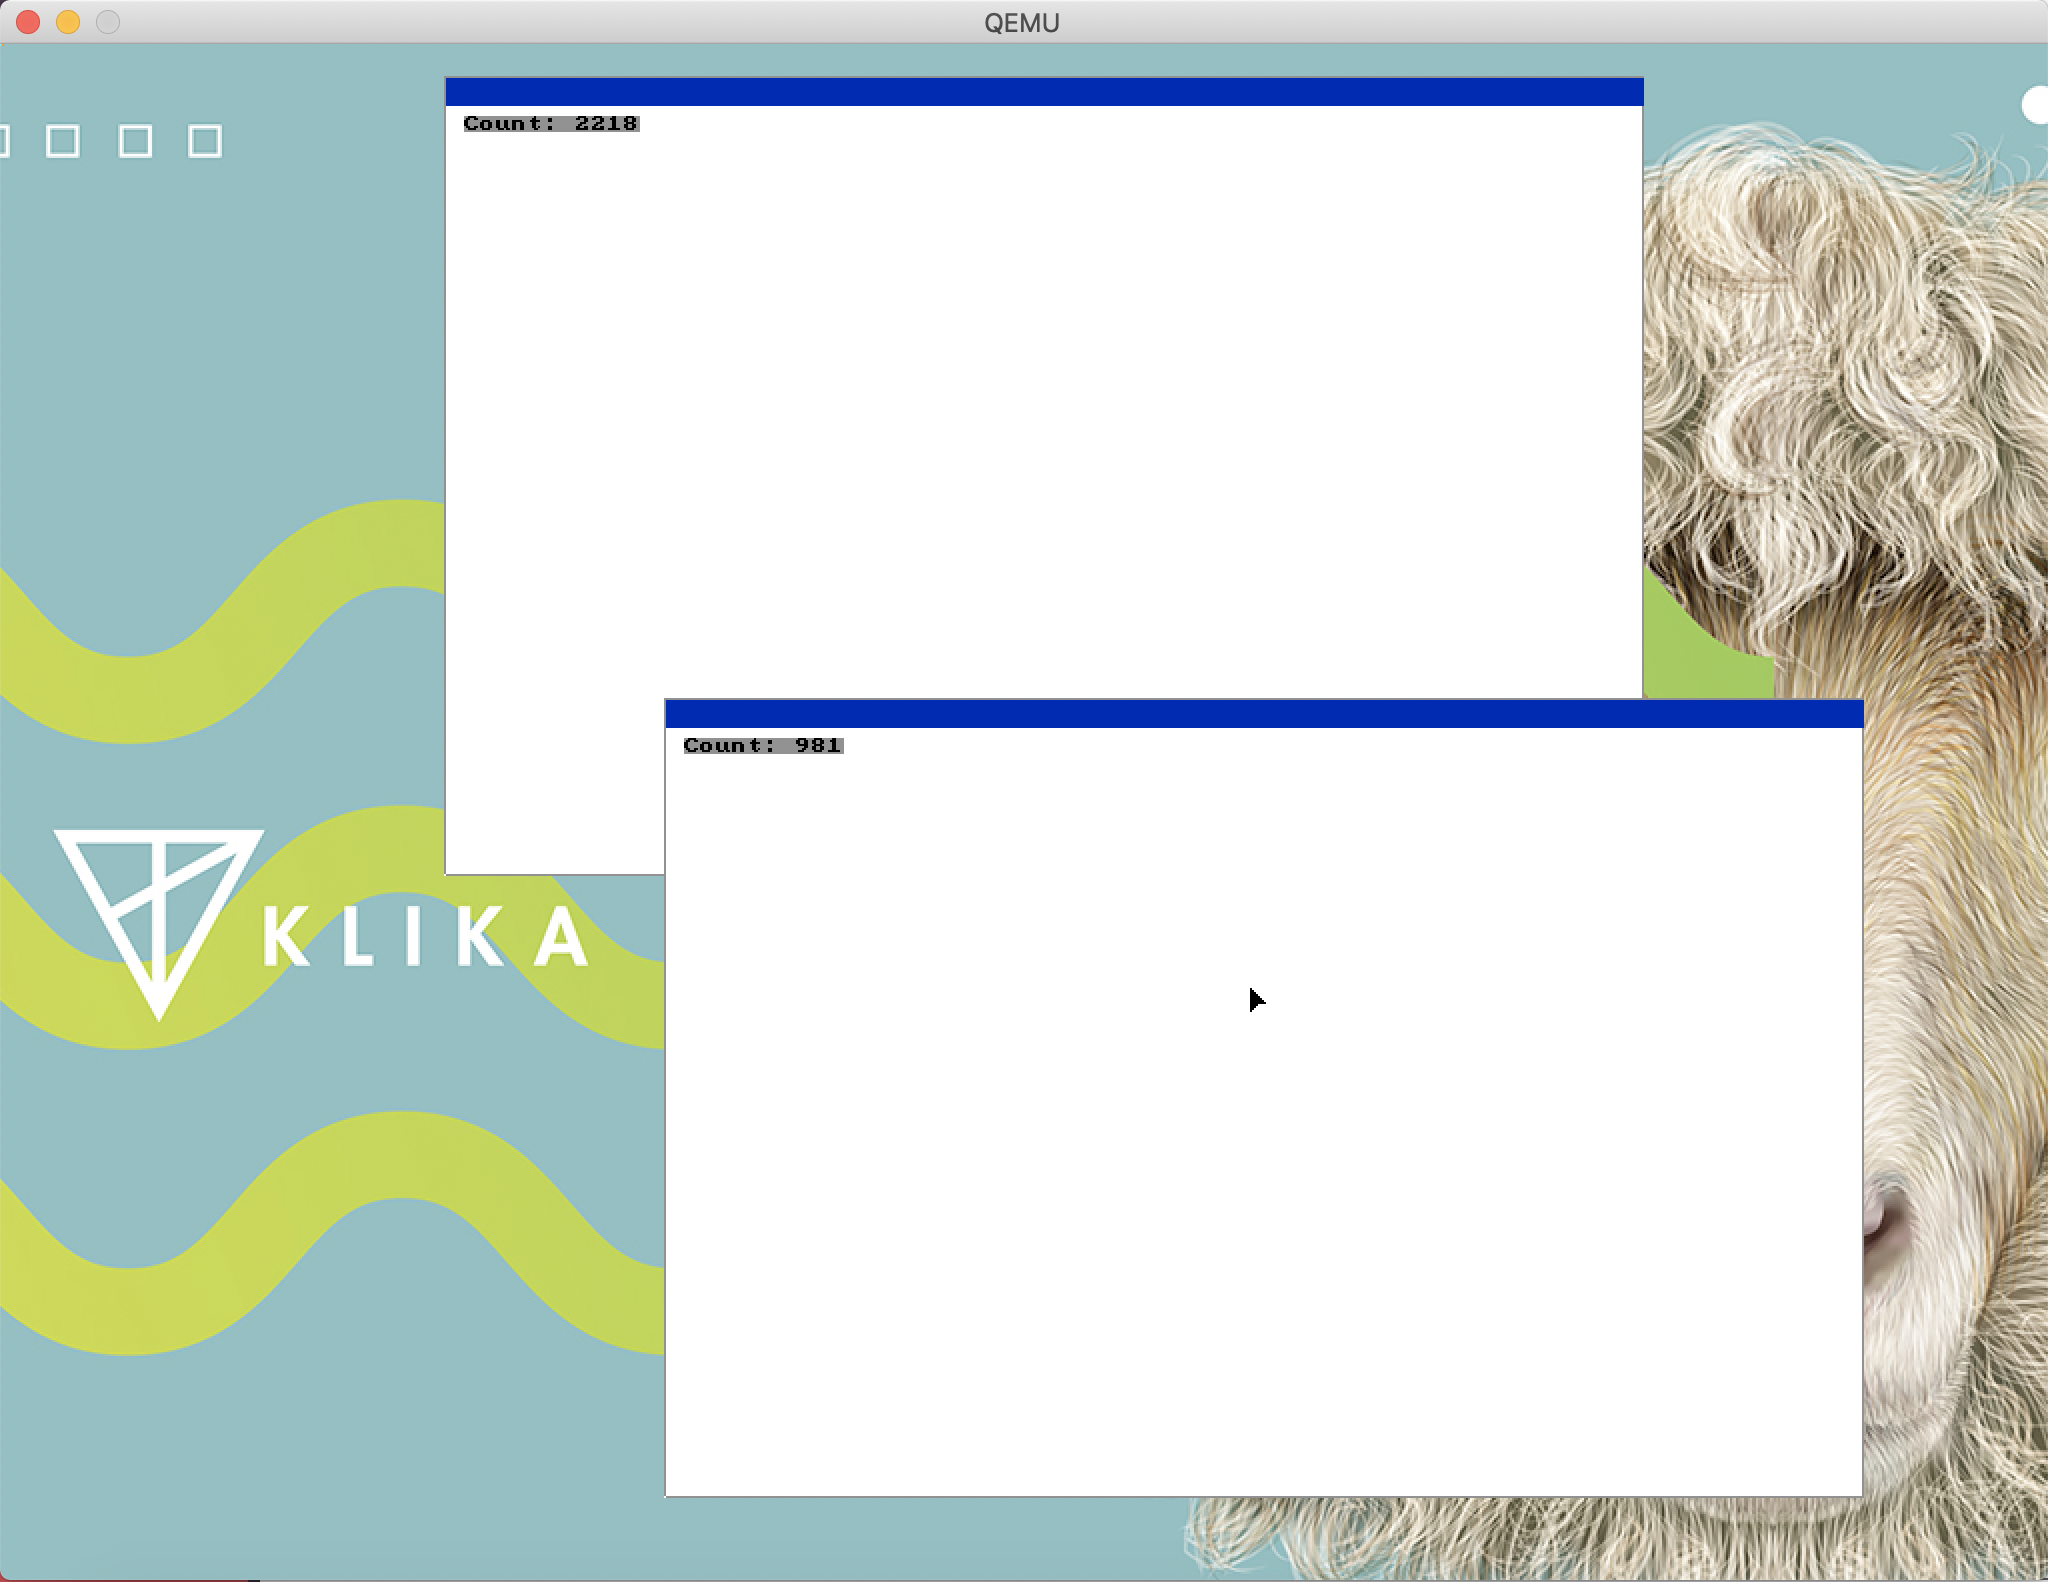
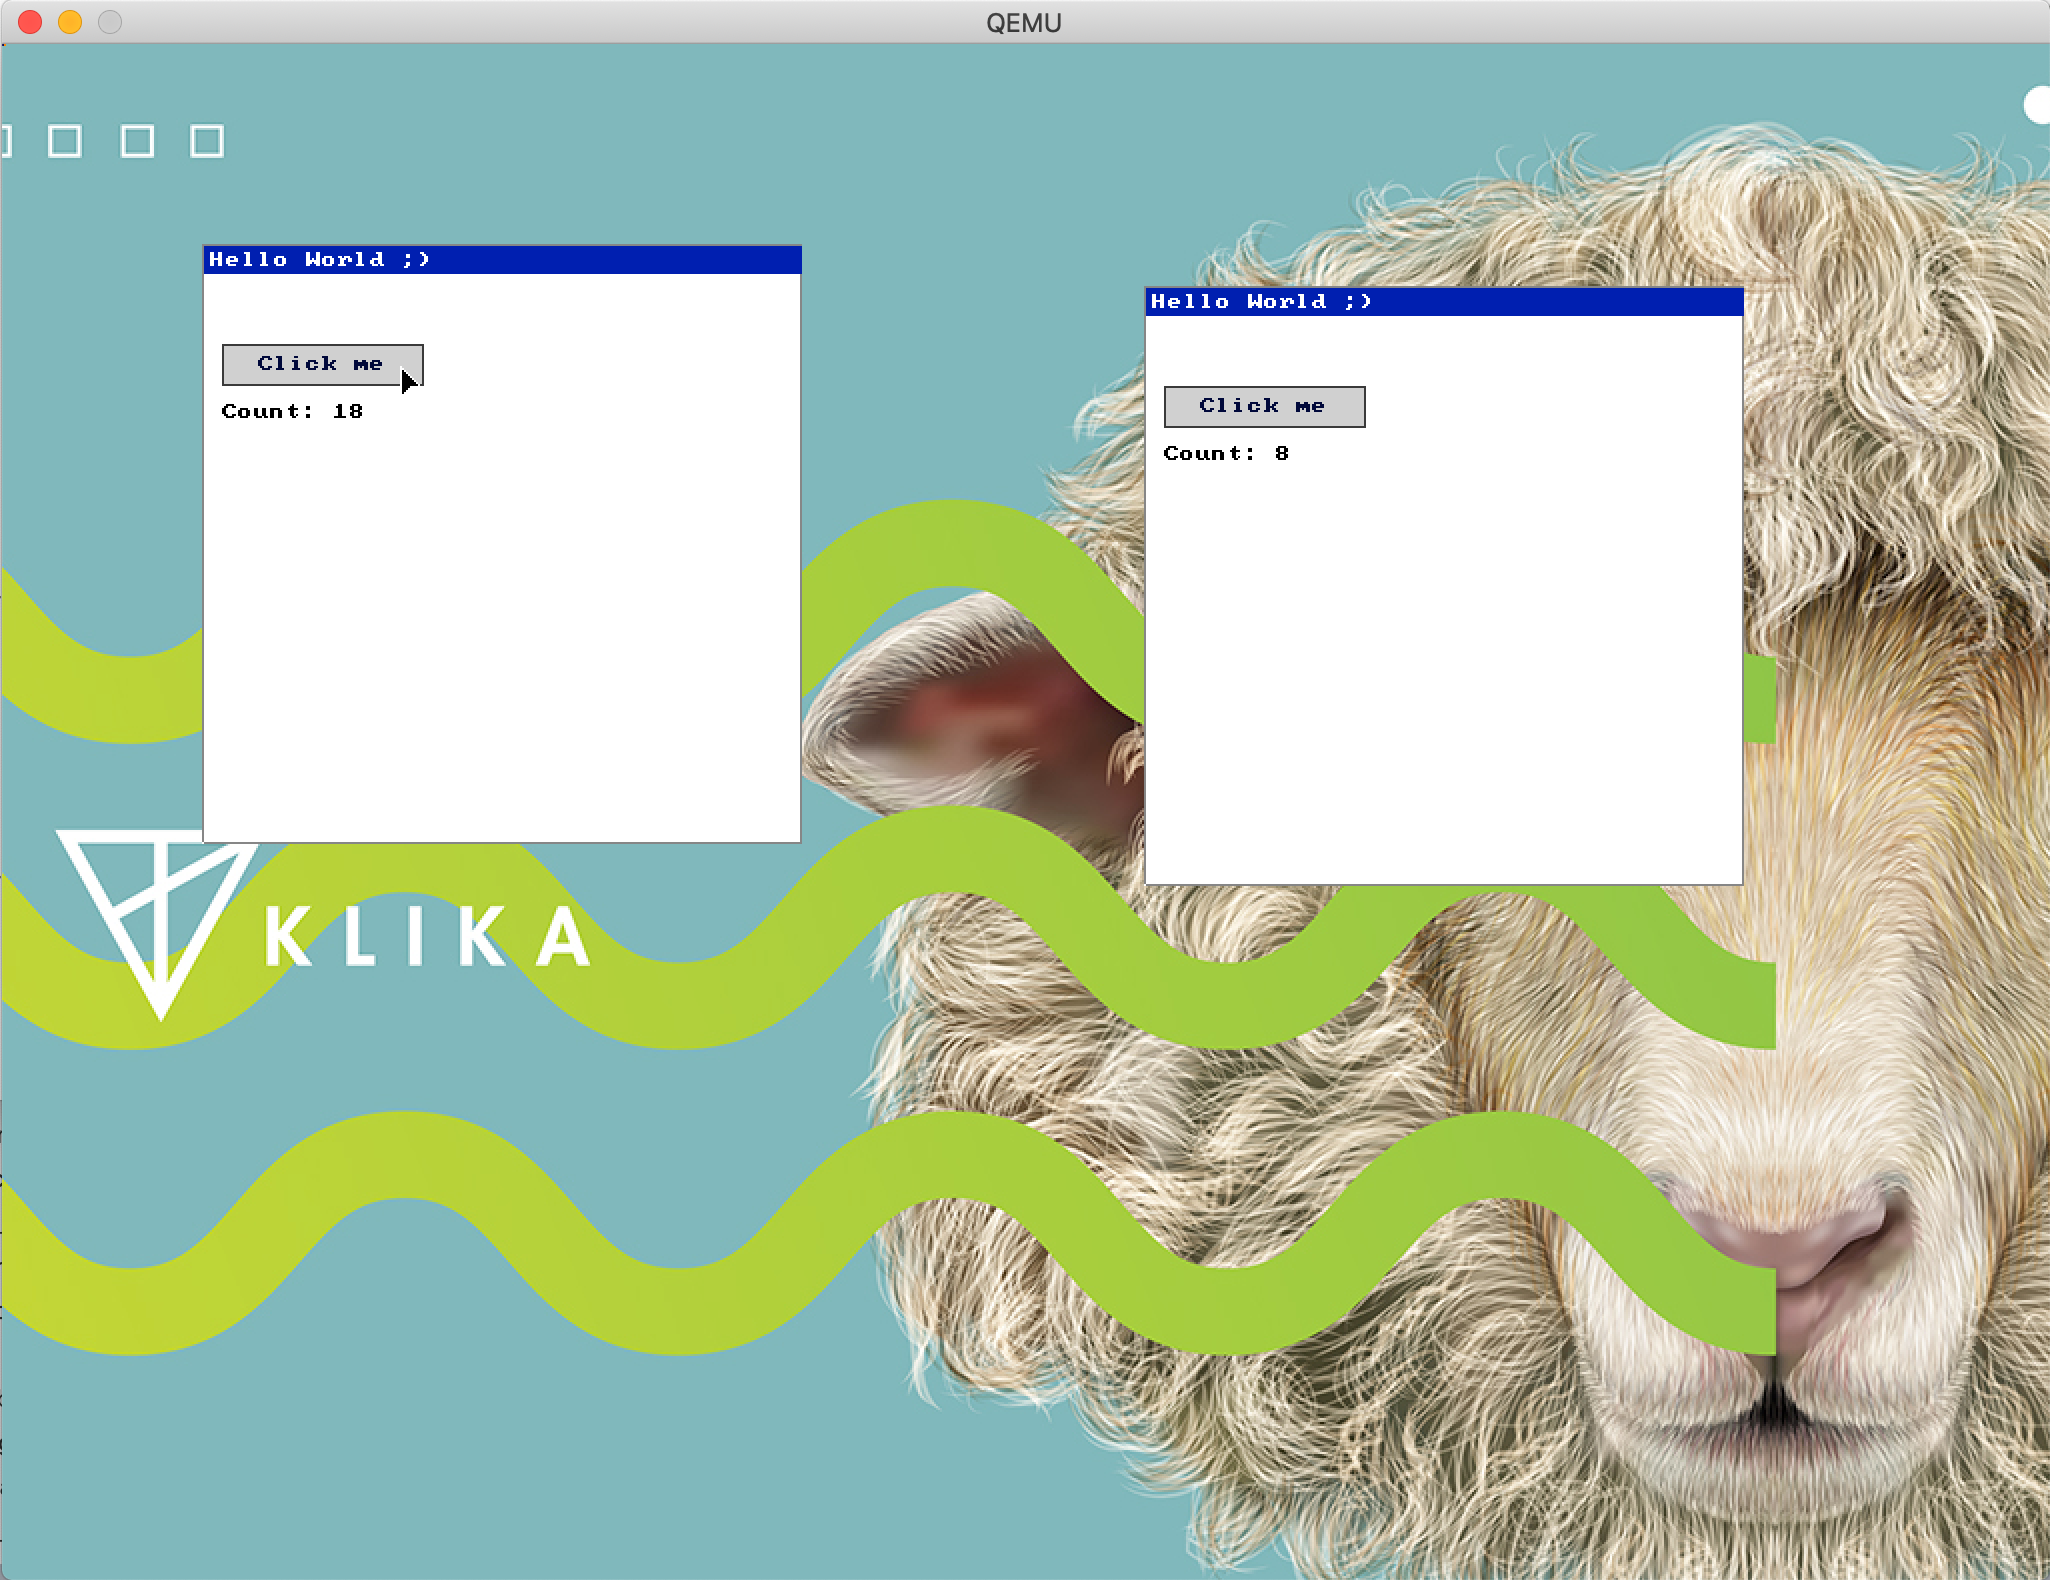
New screen

diff --git a/kernel/src/kernel/window_manager.c b/kernel/src/kernel/window_manager.c
@@ -12,7 +12,7 @@
 #include <isr.h>
 
 // Remove to have black wallpaper (fast compile)
-// #define WALLPAPER
+#define WALLPAPER
 
 #ifdef WALLPAPER
 #include "../lib/klika-wallpaper.bmp.h"
